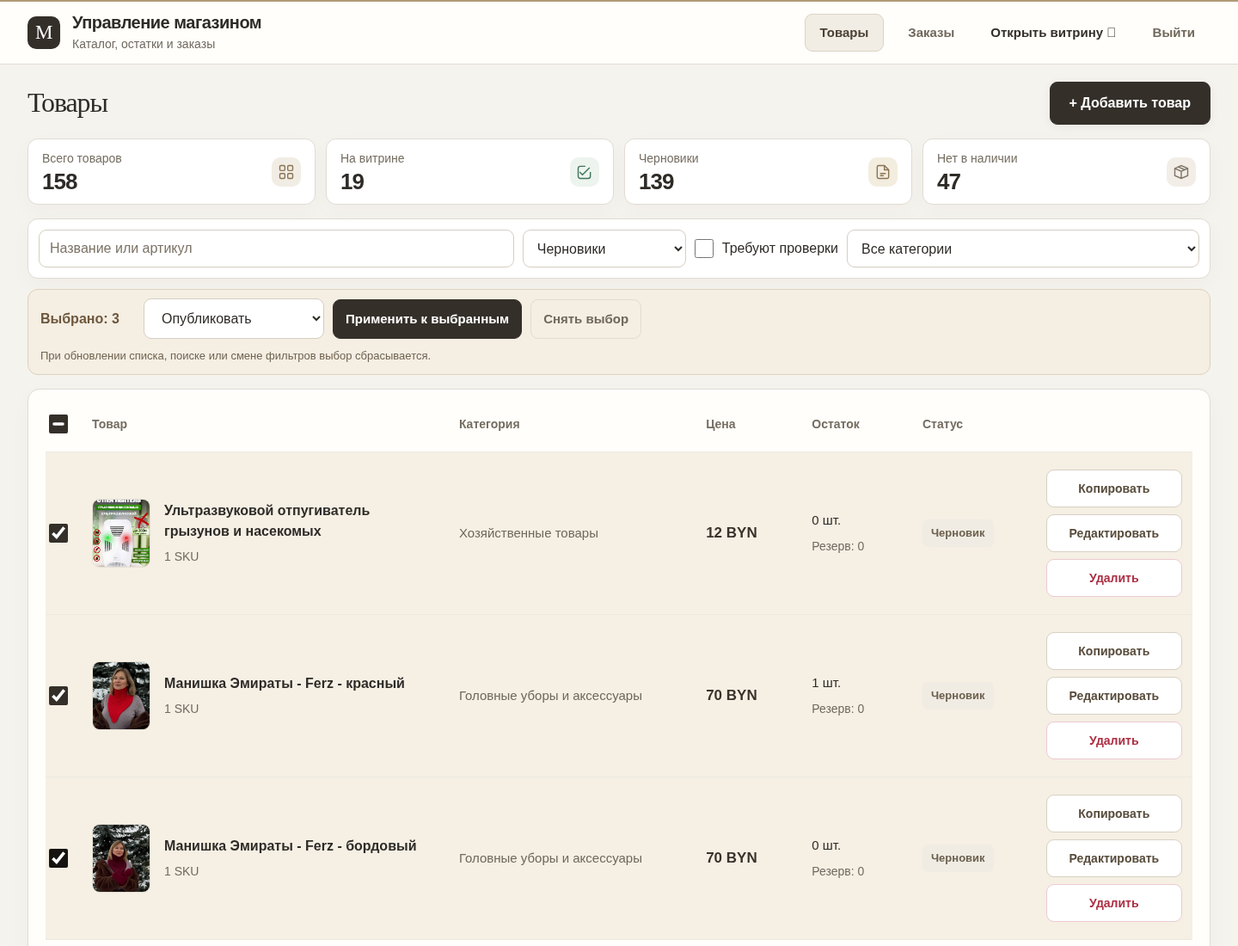
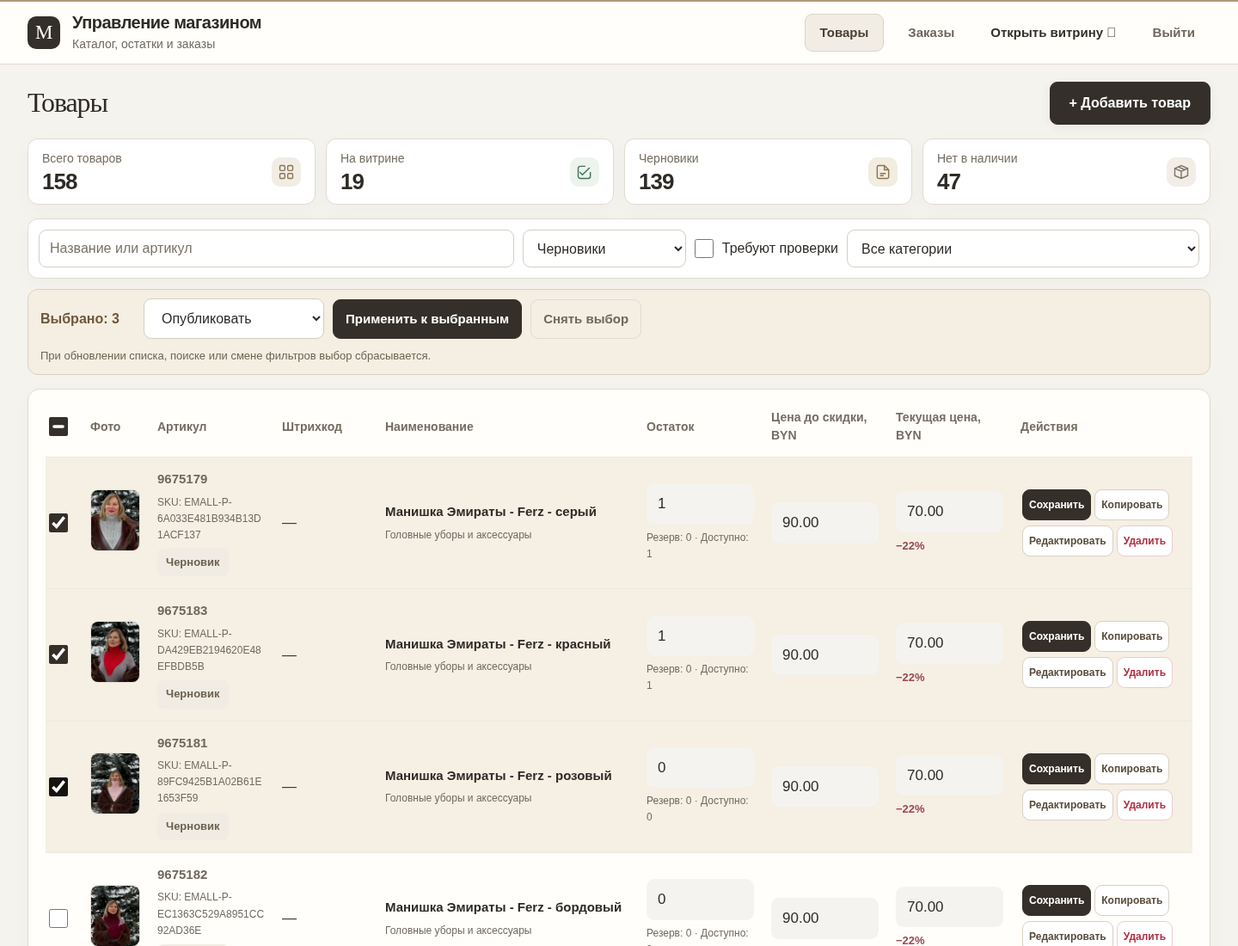
Add SKU table with inline price and inventory editing

diff --git a/admin/app.js b/admin/app.js
@@ -1,3 +1,4 @@
+const quickEdits=new Map();
 const app=document.querySelector('#admin-app');
 const esc=value=>String(value??'').replace(/[&<>"']/g,c=>({'&':'&amp;','<':'&lt;','>':'&gt;','"':'&quot;',"'":'&#39;'}[c]));
 const money=value=>new Intl.NumberFormat('ru-RU',{maximumFractionDigits:2}).format(value)+' BYN';
@@ -55,13 +56,15 @@ function renderList(){
  const products=state.catalog.products.filter(p=>{
   const matchCategory=state.category==='all'||path(p.cat).startsWith(path(state.category));
   const q=state.search.trim().toLocaleLowerCase('ru');
-  return (!state.review||reviewReasons(p).length>0)&&(state.status==='all'||p.status===state.status)&&matchCategory&&(!q||[p.name,path(p.cat),...p.variants.map(v=>v.sku)].join(' ').toLocaleLowerCase('ru').includes(q));
+  return (!state.review||reviewReasons(p).length>0)&&(state.status==='all'||p.status===state.status)&&matchCategory&&(!q||[p.name,path(p.cat),p.emallId||'',...p.variants.flatMap(v=>[v.sku,v.externalSku||'',v.options?.['Штрихкод']||'']),p.attrs?.['Штрихкод']||''].join(' ').toLocaleLowerCase('ru').includes(q));
  });
  state.visibleIds=products.map(p=>p.id);
- app.innerHTML=header()+`<main class="wrap page"><div class="heading"><div><span class="heading-eyebrow">Рабочее пространство</span><h1>Товары</h1><p class="heading-description">Карточки, цены и наличие — всё в одном месте</p></div><button class="btn" data-action="new">+ Добавить товар</button></div><section class="overview" aria-label="Сводка по товарам"><div class="metric"><div><span class="metric-label">Всего товаров</span><strong>${state.catalog.products.length}</strong></div><span class="metric-icon" aria-hidden="true"><svg viewBox="0 0 24 24" fill="none" stroke="currentColor" stroke-width="1.7"><rect x="3" y="3" width="7" height="7" rx="1.5"/><rect x="14" y="3" width="7" height="7" rx="1.5"/><rect x="3" y="14" width="7" height="7" rx="1.5"/><rect x="14" y="14" width="7" height="7" rx="1.5"/></svg></span></div><div class="metric published-metric"><div><span class="metric-label">На витрине</span><strong>${state.catalog.products.filter(p=>p.status==='published').length}</strong></div><span class="metric-icon" aria-hidden="true"><svg viewBox="0 0 24 24" fill="none" stroke="currentColor" stroke-width="1.7"><path d="m5 12 4 4L19 6"/><path d="M20 12v6a3 3 0 0 1-3 3H6a3 3 0 0 1-3-3V7a3 3 0 0 1 3-3h7"/></svg></span></div><div class="metric draft-metric"><div><span class="metric-label">Черновики</span><strong>${state.catalog.products.filter(p=>p.status==='draft').length}</strong></div><span class="metric-icon" aria-hidden="true"><svg viewBox="0 0 24 24" fill="none" stroke="currentColor" stroke-width="1.7"><path d="M14 3H6a2 2 0 0 0-2 2v14a2 2 0 0 0 2 2h12a2 2 0 0 0 2-2V9Z"/><path d="M14 3v6h6M8 14h8M8 17h5"/></svg></span></div><div class="metric stock-metric"><div><span class="metric-label">Нет в наличии</span><strong>${state.catalog.products.filter(p=>p.variants.every(v=>Math.max(0,v.stock-(v.reserved||0))===0)).length}</strong></div><span class="metric-icon" aria-hidden="true"><svg viewBox="0 0 24 24" fill="none" stroke="currentColor" stroke-width="1.7"><path d="m3 7 9-4 9 4v10l-9 4-9-4ZM3 7l9 4 9-4M12 11v10"/><path d="m8 5 9 4"/></svg></span></div></section><div id="messages">${messageHTML()}</div><div class="toolbar"><input type="search" id="search" aria-label="Поиск товаров" placeholder="Название или артикул" value="${esc(state.search)}"><select id="status-filter" aria-label="Статус товара"><option value="all">Все статусы</option><option value="draft" ${state.status==='draft'?'selected':''}>Черновики</option><option value="published" ${state.status==='published'?'selected':''}>На витрине</option></select><label><input type="checkbox" id="review-filter" ${state.review?'checked':''}> Требуют проверки</label><select id="category-filter" aria-label="Категория товара">${categoryOptions(state.category,true)}</select></div><div class="bulk-toolbar"><span aria-live="polite">Выбрано: ${state.selected.size}</span><select id="bulk-action" aria-label="Действие с выбранными товарами"><option value="publish" ${state.bulkAction==='publish'?'selected':''}>Опубликовать</option><option value="draft" ${state.bulkAction==='draft'?'selected':''}>Вернуть в черновики</option><option value="category" ${state.bulkAction==='category'?'selected':''}>Сменить категорию</option><option value="price" ${state.bulkAction==='price'?'selected':''}>Изменить цены</option><option value="delete" ${state.bulkAction==='delete'?'selected':''}>Удалить</option></select><select id="bulk-category" ${state.bulkAction!=='category'?'hidden':''} aria-label="Новая категория">${categoryOptions('')}</select><select id="price-mode" ${state.bulkAction!=='price'?'hidden':''} aria-label="Способ изменения цены"><option value="amount">На сумму, BYN</option><option value="percent">На процент</option></select><input id="price-amount" ${state.bulkAction!=='price'?'hidden':''} type="number" step="0.01" aria-label="Изменение цены" placeholder="Например: -10 или 5"><button class="btn small" data-action="bulk-apply" ${!state.selected.size||state.busy?'disabled':''}>Применить к выбранным</button><button class="btn plain small" data-action="clear-selection" ${!state.selected.size||state.busy?'disabled':''}>Снять выбор</button><span class="hint">При обновлении списка, поиске или смене фильтров выбор сбрасывается.</span></div><section class="panel table-scroll">${products.length?`<table class="list product-list"><thead><tr><th class="selection-cell"><input type="checkbox" id="select-all-products" aria-label="Выбрать все найденные товары" ${products.length&&products.every(p=>state.selected.has(p.id))?'checked':''} ${state.busy?'disabled':''}></th><th>Товар</th><th>Категория</th><th>Цена</th><th>Остаток</th><th>Статус</th><th></th></tr></thead><tbody>${products.map(p=>{
- const image=p.images?.[0]||p.variants.flatMap(v=>v.images||[])[0];const prices=p.variants.map(v=>v.price);
- return `<tr><td class="selection-cell"><input type="checkbox" data-select-product="${p.id}" aria-label="Выбрать ${esc(p.name)}" ${state.selected.has(p.id)?'checked':''} ${state.busy?'disabled':''}></td><td><div class="item-name">${image?`<img class="thumb" src="${esc(image)}" alt="">`:'<span class="thumb placeholder" aria-hidden="true">▧</span>'}<div><strong>${esc(p.name)}</strong><span class="hint">${p.variants.length} SKU</span>${reviewReasons(p).length?`<p class="hint">${esc(reviewReasons(p).join(' · '))}</p>`:''}</div></div></td><td>${esc(path(p.cat))}</td><td>${new Set(prices).size>1?'от ':''}${money(Math.min(...prices))}</td><td>${p.variants.reduce((n,v)=>n+v.stock,0)} шт.<p class="hint">Резерв: ${p.variants.reduce((n,v)=>n+(v.reserved||0),0)}</p></td><td><span class="badge ${p.status}">${p.status==='published'?'На витрине':'Черновик'}</span></td><td><button class="btn secondary small" data-copy="${p.id}">Копировать</button><button class="btn secondary small" data-edit="${p.id}">Редактировать</button> <button class="btn danger small" data-delete="${p.id}">Удалить</button></td></tr>`;
- }).join('')}</tbody></table>`:'<div class="empty"><h2>Товары не найдены</h2><p class="muted">Измените условия поиска или добавьте новый товар.</p></div>'}</section></main>`;
+ app.innerHTML=header()+`<main class="wrap page"><div class="heading"><div><span class="heading-eyebrow">Рабочее пространство</span><h1>Товары</h1><p class="heading-description">Карточки, цены и наличие — всё в одном месте</p></div><button class="btn" data-action="new">+ Добавить товар</button></div><section class="overview" aria-label="Сводка по товарам"><div class="metric"><div><span class="metric-label">Всего товаров</span><strong>${state.catalog.products.length}</strong></div><span class="metric-icon" aria-hidden="true"><svg viewBox="0 0 24 24" fill="none" stroke="currentColor" stroke-width="1.7"><rect x="3" y="3" width="7" height="7" rx="1.5"/><rect x="14" y="3" width="7" height="7" rx="1.5"/><rect x="3" y="14" width="7" height="7" rx="1.5"/><rect x="14" y="14" width="7" height="7" rx="1.5"/></svg></span></div><div class="metric published-metric"><div><span class="metric-label">На витрине</span><strong>${state.catalog.products.filter(p=>p.status==='published').length}</strong></div><span class="metric-icon" aria-hidden="true"><svg viewBox="0 0 24 24" fill="none" stroke="currentColor" stroke-width="1.7"><path d="m5 12 4 4L19 6"/><path d="M20 12v6a3 3 0 0 1-3 3H6a3 3 0 0 1-3-3V7a3 3 0 0 1 3-3h7"/></svg></span></div><div class="metric draft-metric"><div><span class="metric-label">Черновики</span><strong>${state.catalog.products.filter(p=>p.status==='draft').length}</strong></div><span class="metric-icon" aria-hidden="true"><svg viewBox="0 0 24 24" fill="none" stroke="currentColor" stroke-width="1.7"><path d="M14 3H6a2 2 0 0 0-2 2v14a2 2 0 0 0 2 2h12a2 2 0 0 0 2-2V9Z"/><path d="M14 3v6h6M8 14h8M8 17h5"/></svg></span></div><div class="metric stock-metric"><div><span class="metric-label">Нет в наличии</span><strong>${state.catalog.products.filter(p=>p.variants.every(v=>Math.max(0,v.stock-(v.reserved||0))===0)).length}</strong></div><span class="metric-icon" aria-hidden="true"><svg viewBox="0 0 24 24" fill="none" stroke="currentColor" stroke-width="1.7"><path d="m3 7 9-4 9 4v10l-9 4-9-4ZM3 7l9 4 9-4M12 11v10"/><path d="m8 5 9 4"/></svg></span></div></section><div id="messages">${messageHTML()}</div><div class="toolbar"><input type="search" id="search" aria-label="Поиск товаров" placeholder="Название или артикул" value="${esc(state.search)}"><select id="status-filter" aria-label="Статус товара"><option value="all">Все статусы</option><option value="draft" ${state.status==='draft'?'selected':''}>Черновики</option><option value="published" ${state.status==='published'?'selected':''}>На витрине</option></select><label><input type="checkbox" id="review-filter" ${state.review?'checked':''}> Требуют проверки</label><select id="category-filter" aria-label="Категория товара">${categoryOptions(state.category,true)}</select></div><div class="bulk-toolbar"><span aria-live="polite">Выбрано: ${state.selected.size}</span><select id="bulk-action" aria-label="Действие с выбранными товарами"><option value="publish" ${state.bulkAction==='publish'?'selected':''}>Опубликовать</option><option value="draft" ${state.bulkAction==='draft'?'selected':''}>Вернуть в черновики</option><option value="category" ${state.bulkAction==='category'?'selected':''}>Сменить категорию</option><option value="price" ${state.bulkAction==='price'?'selected':''}>Изменить цены</option><option value="delete" ${state.bulkAction==='delete'?'selected':''}>Удалить</option></select><select id="bulk-category" ${state.bulkAction!=='category'?'hidden':''} aria-label="Новая категория">${categoryOptions('')}</select><select id="price-mode" ${state.bulkAction!=='price'?'hidden':''} aria-label="Способ изменения цены"><option value="amount">На сумму, BYN</option><option value="percent">На процент</option></select><input id="price-amount" ${state.bulkAction!=='price'?'hidden':''} type="number" step="0.01" aria-label="Изменение цены" placeholder="Например: -10 или 5"><button class="btn small" data-action="bulk-apply" ${!state.selected.size||state.busy?'disabled':''}>Применить к выбранным</button><button class="btn plain small" data-action="clear-selection" ${!state.selected.size||state.busy?'disabled':''}>Снять выбор</button><span class="hint">При обновлении списка, поиске или смене фильтров выбор сбрасывается.</span></div><section class="panel table-scroll">${products.length?`<table class="list product-list quick-product-list"><thead><tr><th class="selection-cell"><input type="checkbox" id="select-all-products" aria-label="Выбрать все найденные товары" ${products.length&&products.every(p=>state.selected.has(p.id))?'checked':''} ${state.busy?'disabled':''}></th><th>Фото</th><th>Артикул</th><th>Штрихкод</th><th>Наименование</th><th>Остаток</th><th>Цена до скидки, BYN</th><th>Текущая цена, BYN</th><th>Действия</th></tr></thead><tbody>${products.map(p=>p.variants.map((v,i)=>{
+ const image=v.images?.[0]||p.images?.[0],draft=quickEdits.get(v.sku)||v;
+ const barcode=v.options?.['Штрихкод']||p.attrs?.['Штрихкод']||'';
+ const field=(key,label,step)=>`<input type="number" min="0" step="${step}" data-quick-field="${key}" data-quick-sku="${esc(v.sku)}" aria-label="${label} ${esc(v.sku)}" value="${esc(key!=='stock'&&typeof draft[key]==='number'?draft[key].toFixed(2):(draft[key]??0))}" ${state.busy?'disabled':''}>`;
+ return `<tr data-quick-row="${esc(v.sku)}"><td class="selection-cell">${i===0?`<input type="checkbox" data-select-product="${p.id}" aria-label="Выбрать ${esc(p.name)}" ${state.selected.has(p.id)?'checked':''} ${state.busy?'disabled':''}>`:''}</td><td>${image?`<img class="thumb" src="${esc(image)}" alt="">`:'<span class="thumb placeholder">▧</span>'}</td><td><strong>${esc(v.externalSku||p.emallId||v.sku)}</strong>${v.externalSku||p.emallId?`<p class="hint">SKU: ${esc(v.sku)}</p>`:''}<p><span class="badge ${p.status}">${p.status==='published'?'В продаже':'Черновик'}</span></p></td><td>${esc(barcode)||'—'}</td><td><strong>${esc(p.name)}</strong><p class="hint">${esc(path(p.cat))}</p>${p.variants.length>1?`<p class="hint">${esc(Object.entries(v.options||{}).map(([k,val])=>k+': '+val).join(' · ')||v.name||v.sku)}</p>`:''}${reviewReasons(p).length?`<p class="hint">${esc(reviewReasons(p).join(' · '))}</p>`:''}</td><td>${field('stock','Остаток','1')}<p class="hint">Резерв: ${v.reserved||0} · Доступно: ${v.available??Math.max(0,v.stock-(v.reserved||0))}</p></td><td>${field('old','Цена до скидки','0.01')}</td><td>${field('price','Текущая цена','0.01')}${Number(draft.old)>Number(draft.price)?`<span class="inline-discount">−${Math.round((1-Number(draft.price)/Number(draft.old))*100)}%</span>`:''}</td><td><button class="btn small" data-quick-save="${esc(v.sku)}" data-product="${p.id}" ${state.busy?'disabled':''}>Сохранить</button>${i===0?`<button class="btn secondary small" data-copy="${p.id}">Копировать</button><button class="btn secondary small" data-edit="${p.id}">Редактировать</button><button class="btn danger small" data-delete="${p.id}">Удалить</button>`:''}</td></tr>`;
+ }).join('')).join('')}</tbody></table>`:'<div class="empty"><h2>Товары не найдены</h2><p class="muted">Измените условия поиска или добавьте новый товар.</p></div>'}</section></main>`;
  const allBox=document.querySelector('#select-all-products');if(allBox)allBox.indeterminate=products.some(p=>state.selected.has(p.id))&&!products.every(p=>state.selected.has(p.id));
  document.querySelectorAll('#search,#status-filter,#category-filter,#bulk-action,#bulk-category,#price-mode,#price-amount,#review-filter').forEach(input=>input.disabled=state.busy);
 }
@@ -121,6 +124,7 @@ app.addEventListener('input',e=>{
  if(e.target.id==='search'){const start=e.target.selectionStart;state.search=value;state.selected.clear();renderList();const input=document.querySelector('#search');input.focus();input.setSelectionRange(start,start)}
 });
 app.addEventListener('toggle',e=>{if(e.target.dataset.variantPhotos!==undefined){const index=Number(e.target.dataset.variantPhotos);if(e.target.open)state.openVariantPhotos.add(index);else state.openVariantPhotos.delete(index)}},true);
+app.addEventListener('input',e=>{if(!e.target.dataset.quickField)return;const sku=e.target.dataset.quickSku;const v=state.catalog.products.flatMap(p=>p.variants).find(v=>v.sku===sku);const draft=quickEdits.get(sku)||{price:v.price,old:v.old,stock:v.stock};draft[e.target.dataset.quickField]=e.target.value;quickEdits.set(sku,draft)});
 app.addEventListener('change',async e=>{
  const d=e.target.dataset;
  if(d.selectProduct!==undefined){if(state.busy)return;const p=state.catalog.products.find(p=>p.id===d.selectProduct);if(p){if(e.target.checked)state.selected.set(p.id,p.version);else state.selected.delete(p.id)}renderList();document.querySelector('[data-select-product="'+d.selectProduct+'"]')?.focus();return}
@@ -167,6 +171,14 @@ app.addEventListener('click',async e=>{
    try{await api('/api/admin/products/'+product.id,{method:'DELETE',body:{version:product.version}});state.editor=null;state.dirty=false;state.error='';state.message='Товар удалён.';state.selected.delete(product.id);await loadCatalog()}finally{state.busy=false;render()}
    return;
   }
+  if(d.quickSave){
+   const p=state.catalog.products.find(p=>p.id===d.product),v=p?.variants.find(v=>v.sku===d.quickSave);if(!v)return;
+   const draft=quickEdits.get(v.sku)||v,values={price:Number(draft.price),old:Number(draft.old),stock:Number(draft.stock)};
+   if(Object.values(values).some(n=>!Number.isFinite(n)||n<0)||!Number.isInteger(values.stock)||draft.price===''||draft.stock==='')throw Error('Укажите корректные цены и целый неотрицательный остаток.');
+   state.busy=true;document.querySelectorAll('[data-quick-save],[data-quick-field]').forEach(b=>b.disabled=true);
+   try{const result=await api('/api/admin/products/'+p.id,{method:'PUT',body:{...p,variants:p.variants.map(item=>item.sku===v.sku?{...item,...values}:item)}});quickEdits.delete(v.sku);state.catalog.products=state.catalog.products.map(item=>item.id===p.id?result:item);if(state.selected.has(p.id))state.selected.set(p.id,result.version);state.error='';state.message='Цена и остаток сохранены: '+(v.externalSku||v.sku);}
+   finally{state.busy=false;renderList()}return;
+  }
   if(d.action==='clear-selection'){state.selected.clear();renderList();return}
   if(d.action==='bulk-apply'){
    const action=state.bulkAction,products=[...state.selected].map(([id,version])=>({id,version}));if(!products.length)return;
@@ -187,7 +199,7 @@ app.addEventListener('click',async e=>{
   }
   if(d.copy){
    const original=state.catalog.products.find(p=>p.id===d.copy);if(!original)return;
-   const copy=clone(original);delete copy.id;delete copy.version;copy.name=(copy.name+' — копия').slice(0,200);copy.status='draft';
+   const copy=clone(original);delete copy.id;delete copy.version;delete copy.emallId;copy.name=(copy.name+' — копия').slice(0,200);copy.status='draft';
    copy.variants=copy.variants.map(v=>{const result={...v,sku:'COPY-'+crypto.randomUUID().replaceAll('-','').slice(0,24),stock:0};delete result.sourceManaged;delete result.externalSku;delete result.reserved;delete result.available;return result});
    startEditor(copy);state.dirty=true;state.message='Копия: новые артикулы, нулевые остатки. Сохраните черновик после проверки.';renderEditor();return;
   }
@@ -231,5 +243,5 @@ app.addEventListener('submit',async e=>{
   }catch(error){state.error=error.message}finally{state.busy=false;render();document.querySelector('#messages')?.scrollIntoView({block:'center',behavior:'smooth'})}
  }
 });
-window.addEventListener('beforeunload',e=>{if(state.dirty){e.preventDefault();e.returnValue=''}});
+window.addEventListener('beforeunload',e=>{if(state.dirty||quickEdits.size){e.preventDefault();e.returnValue=''}});
 boot();

diff --git a/admin/style.css b/admin/style.css
@@ -286,3 +286,21 @@ p { line-height: 1.7; }
  .metric-label { font-size: 12px; }
  .page:has(.overview) { padding-top: 16px; }
 }
+.quick-product-list { min-width: 1320px; }
+.quick-product-list th, .quick-product-list td { padding: 14px 10px; }
+.quick-product-list td:nth-child(2) { min-width: 70px; width: 70px; }
+.quick-product-list td:nth-child(3) { min-width: 145px; max-width: 200px; overflow-wrap: anywhere; }
+.quick-product-list td:nth-child(4) { min-width: 120px; font-weight: 400; }
+.quick-product-list td:nth-child(5) { min-width: 240px; width: 28%; }
+.quick-product-list td:nth-child(6), .quick-product-list td:nth-child(7), .quick-product-list td:nth-child(8) { min-width: 145px; width: 145px; }
+.quick-product-list input[type=number] { min-height: 44px; padding: 10px 12px; background: #f4f3ef; border-color: transparent; font-size: 17px; }
+.quick-product-list input[type=number]:focus { background: #fff; border-color: var(--blue); }
+.quick-product-list .thumb { width: 58px; height: 72px; }
+.quick-product-list .hint { white-space: normal; font-size: 12px; }
+.quick-product-list p { margin: 6px 0 0; }
+.inline-discount { display: inline-block; margin-top: 6px; color: #984a52; font-size: 13px; font-weight: 700; }
+.quick-product-list td:last-child { min-width: 185px; }
+.quick-product-list td:last-child .btn { display: inline-flex; width: auto; min-height: 36px; padding: 7px 9px; font-size: 13px; margin: 3px 2px; }
+.quick-product-list td:last-child .btn + .btn { margin-top: 3px; }
+.quick-product-list td:last-child { min-width: 210px; }
+.quick-product-list td:last-child .btn { padding: 6px 7px; font-size: 12px; }

diff --git a/README.md b/README.md
@@ -231,3 +231,9 @@ npm run test:ui
 ## Обновление категорий
 
 В аксессуары добавлена «Бижутерия». Новый раздел «Красота и здоровье» содержит «Уход за полостью рта» и «Товары для маникюра и педикюра». При первом запуске обновлённой версии миграция №4 добавляет категории в существующую базу и переносит товары со словом «серьги» в названии в «Бижутерию», сохраняя цены, фотографии, остатки и статус. При последующих запусках ручные изменения категорий сохраняются. Перед обновлением сохраняйте папку `var/`. Верх админки стал компактнее: уменьшены шапка, отступы и карточки сводки.
+
+## Быстрое редактирование цены и остатка
+
+Список товаров в админке показывает отдельную строку для каждого SKU: фото, артикул, штрихкод (если он есть в характеристиках), название, физический остаток, цену до скидки и текущую цену в BYN. У импортированного варианта показывается артикул источника и локальный SKU. Если вариантов несколько, параметры указаны под названием; флажок массового выбора относится ко всему товару.
+
+Измените значения прямо в строке и нажмите её кнопку «Сохранить». Сохраняется только этот вариант; несохранённые значения соседних строк остаются в списке. Резерв и доступное количество показаны под остатком. Сервер запрещает остаток ниже действующего резерва и отклоняет сохранение устаревшей версии товара. На узком экране таблица прокручивается горизонтально.
